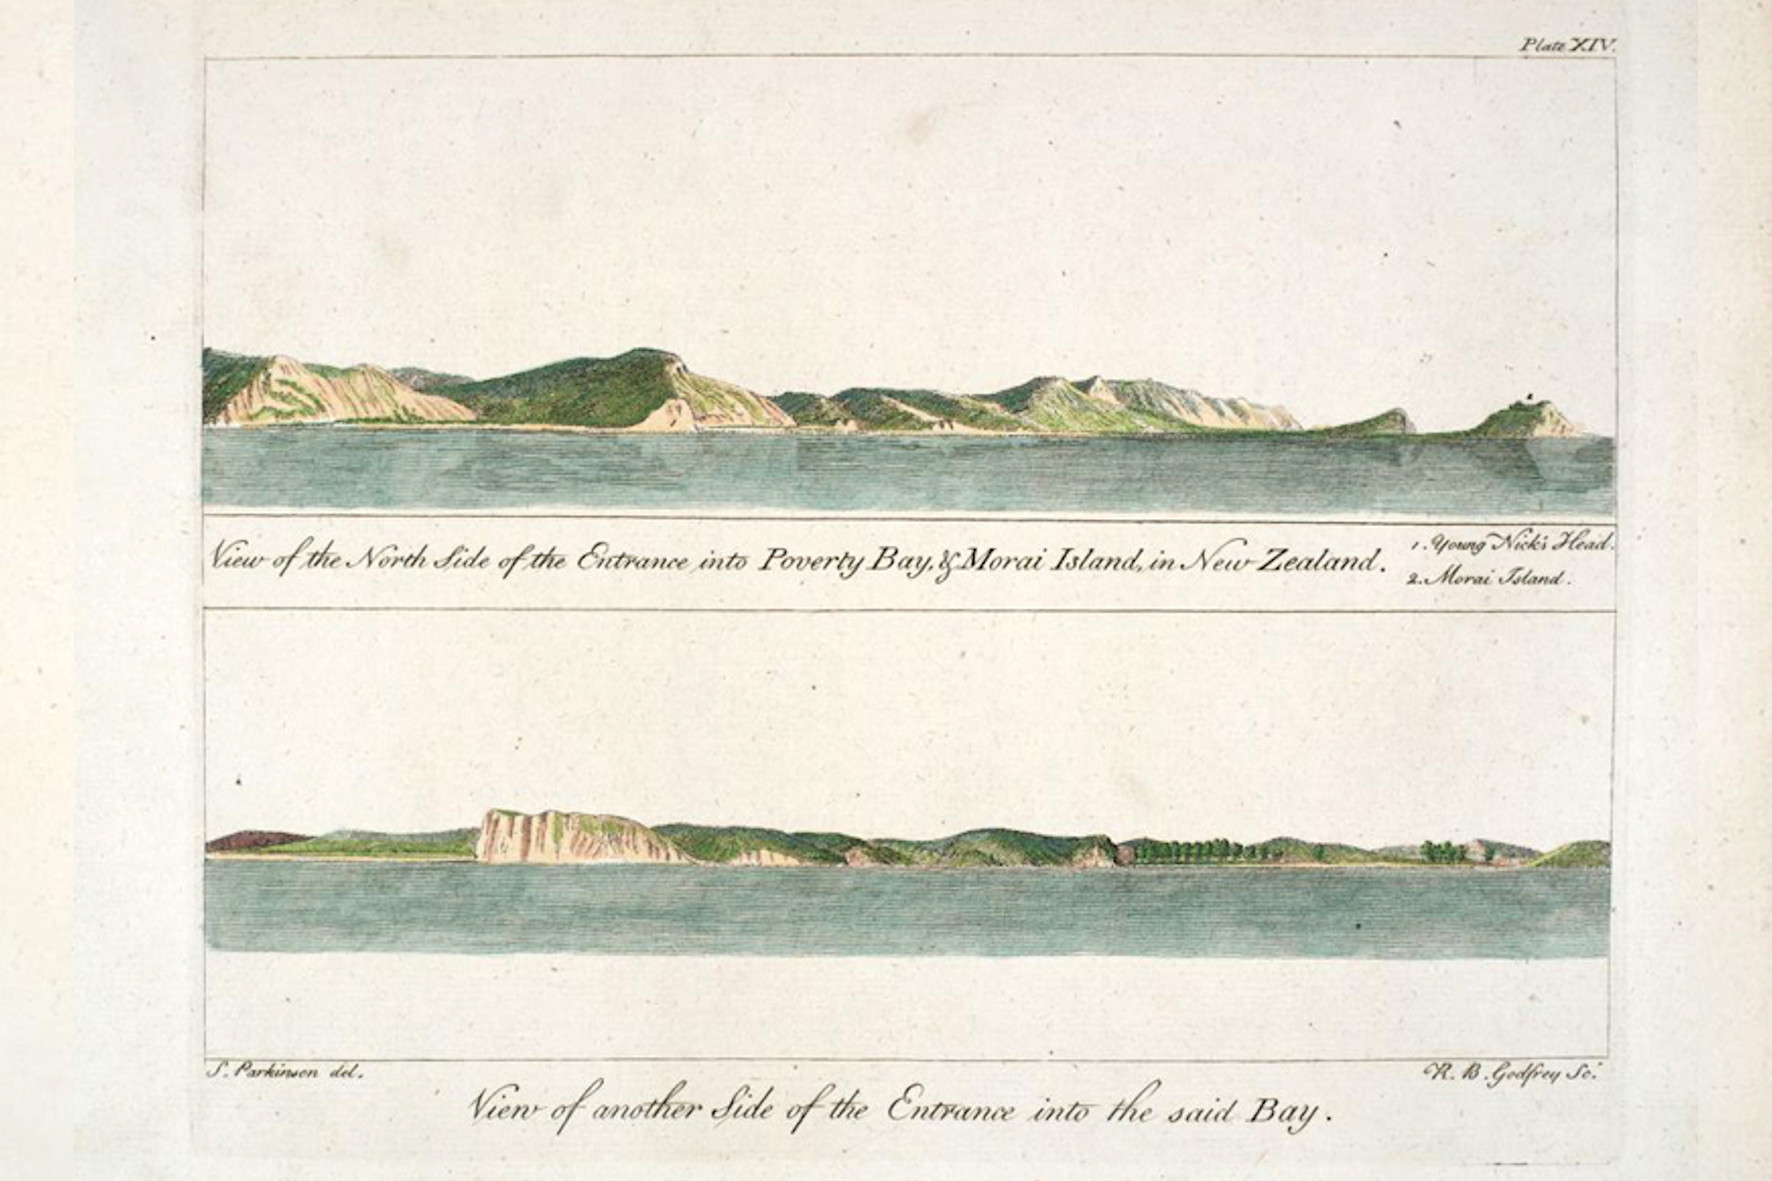
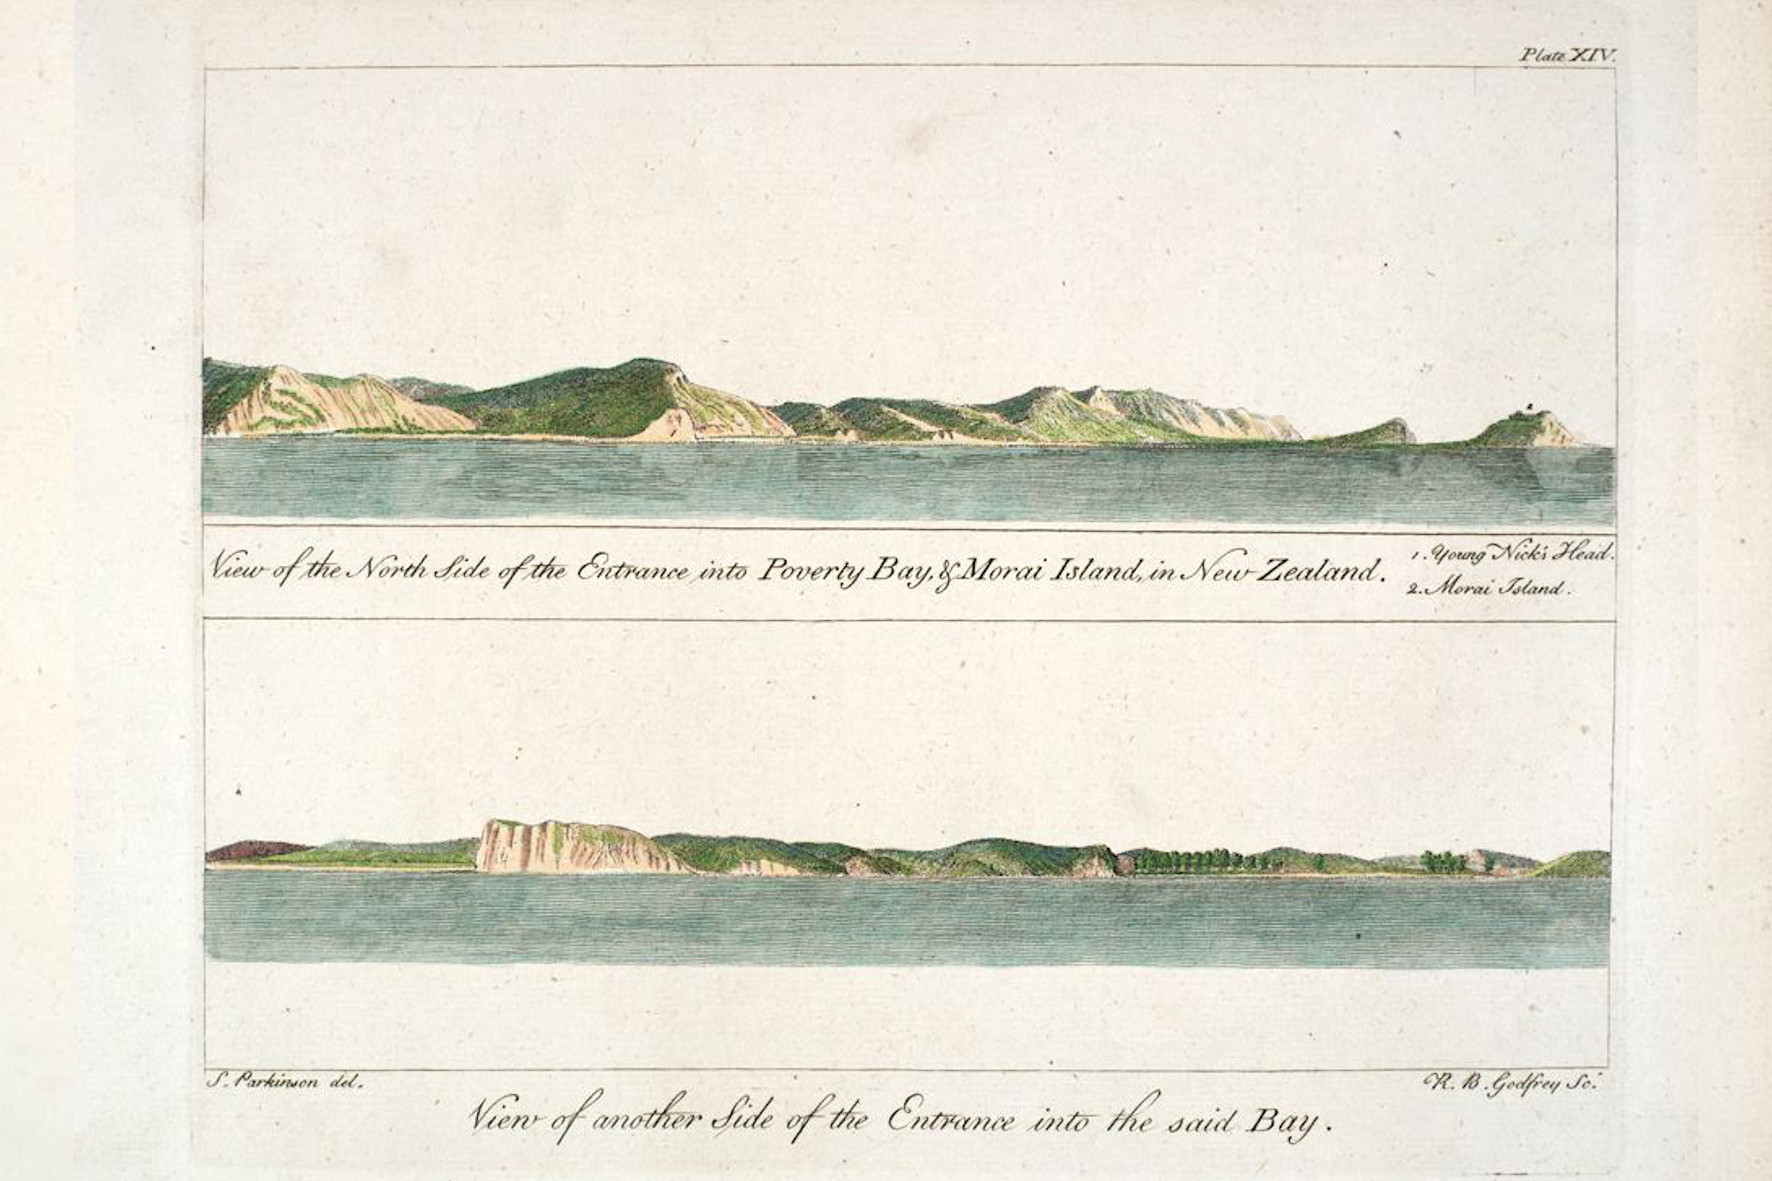
Use larger resolution of the picture
Downloaded from:
https://www.splrarebooks.com/uploads/images/5469/5469_017.jpg

diff --git a/research-notebook/p23-cook-arrival/README.md b/research-notebook/p23-cook-arrival/README.md
@@ -2,7 +2,7 @@
 
 ![View of Poverty Bay featuring Young Nick's Head](pictures/15x10cm-young-nick-head.jpg)
 
-Source: [Journal of Sidney Parkinson, SPL Hand Coloured Rare Book Collection](https://www.splrarebooks.com/uploads/images/5469/med/5469_017.jpg)
+Source: [Journal of Sidney Parkinson, Plate XIV, SPL Hand Coloured Rare Book Collection](https://www.splrarebooks.com/collection/view/a-journal-of-a-voyage-to-the-south-seas-in-his-majestys-ship-the-endeavour-)
 
 #### More Images
 
